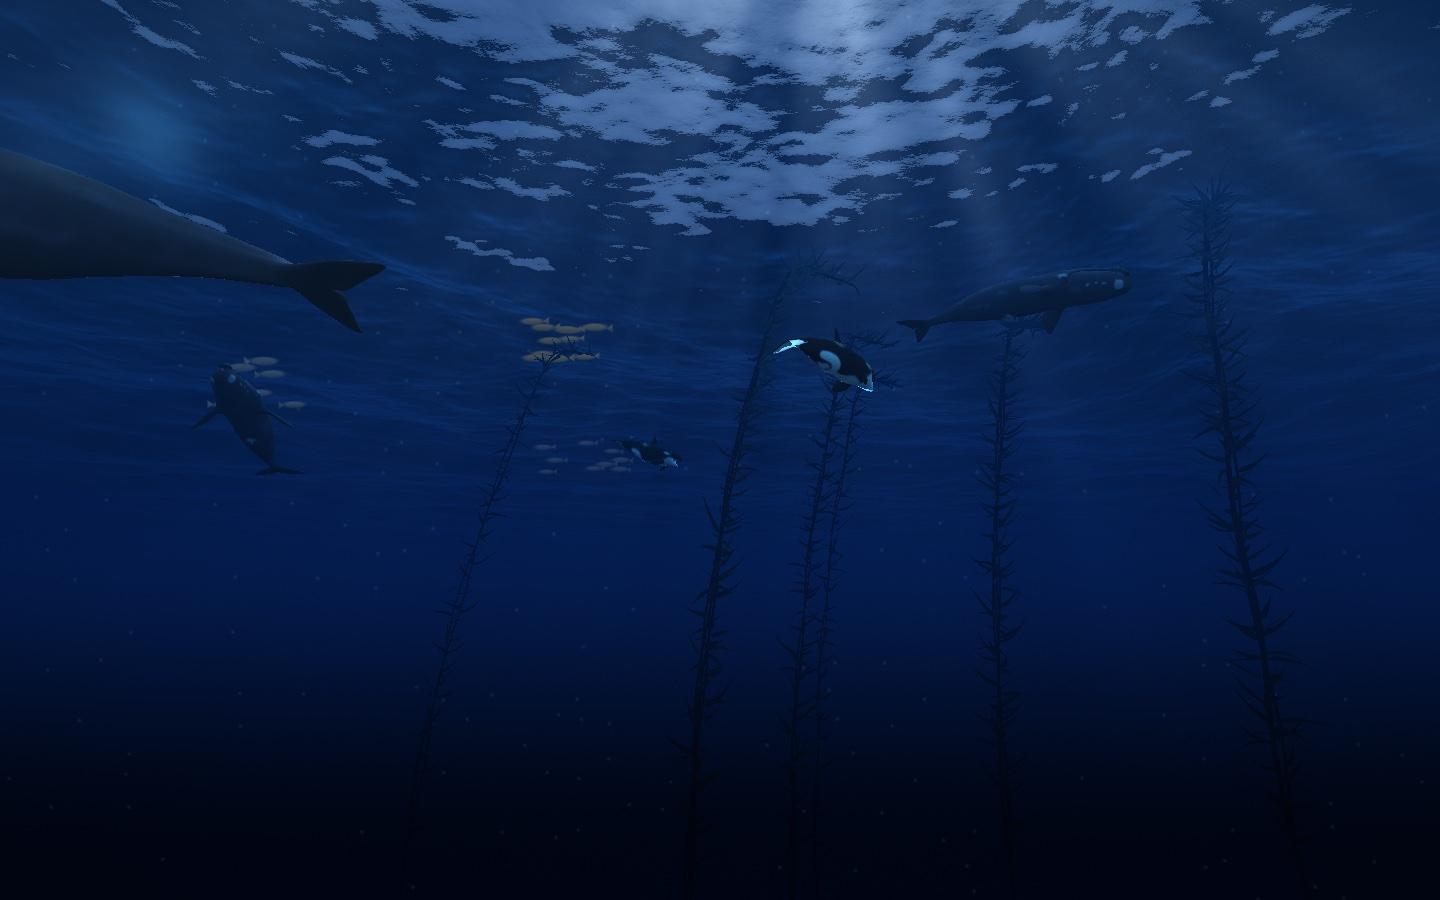
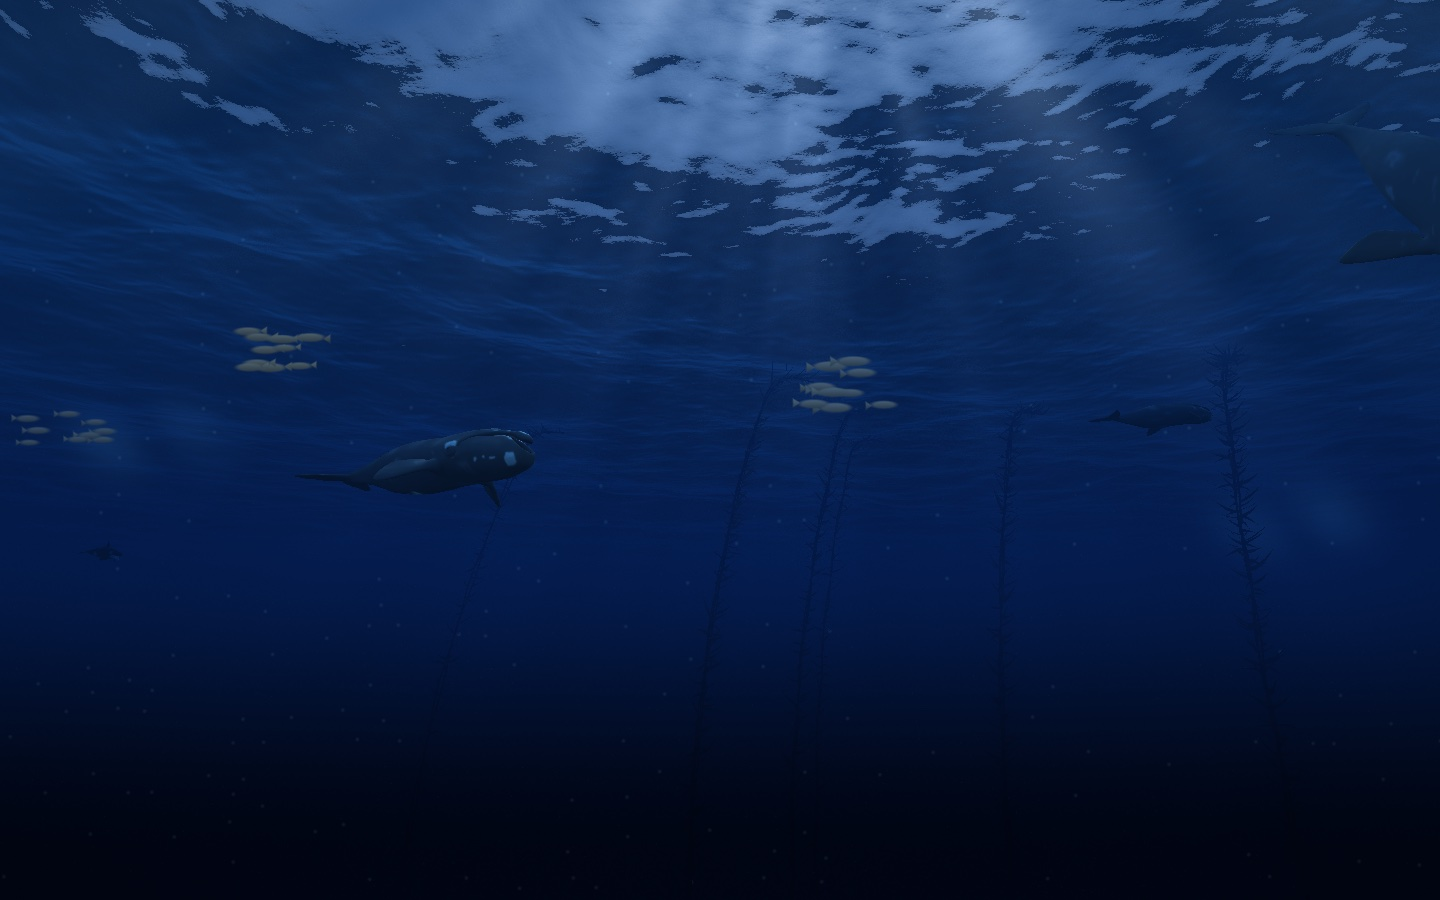
feat(scene): whales roam far, kelp is only a hint, fish schools in front
- Kelp 55 to 100 m away and faded almost into the water
- Whales roam far from the camera and leave the view at the sides; each comes
  to the front only rarely (about 4.5% of the day), on a slow cycle of its own
- The small fish swim near the camera and are drawn last, in their own pass,
  so they pass in front of the whales and the kelp

Part of #7

diff --git a/macos/EchomereScene/Sources/CoveSceneRenderer/SceneShaders.swift b/macos/EchomereScene/Sources/CoveSceneRenderer/SceneShaders.swift
@@ -1,9 +1,10 @@
 /// Metal source for the cove scene, compiled at runtime so the package builds without Xcode.
 ///
 /// The sea is simulated first (an FFT ocean, see `OceanShaders`); then `scene_fragment` draws the picture
-/// back to front: the water and the surface seen from below, echoes, small fish, marine snow, and
+/// back to front: the water and the surface seen from below, echoes, marine snow, and
 /// the light shafts. The surface and the shafts come from the same wave field, so the light moves with the
-/// waves. The kelp and the whales are drawn on top as 3D geometry (`kelp_*`, `whale_*`).
+/// waves. The kelp and the whales are drawn on top as 3D geometry (`kelp_*`, `whale_*`), and the small fish
+/// last, in front of everything (`fish_fragment`).
 ///
 ///
 /// The optics (refraction through the wave normal, Snell's window, total internal reflection, and caustics
@@ -315,7 +316,7 @@ enum SceneShaders {
         if (alpha <= 0.001) return float4(0.0);
 
         float3 silver = float3(0.24, 0.31, 0.35);
-        float3 gold = float3(0.34, 0.31, 0.19);
+        float3 gold = float3(0.27, 0.31, 0.30);
         float3 col = mix(silver, gold, saturate(c.x / 3.0));
         col *= 0.7 + 0.5 * saturate(q.y / 0.15 * 0.5 + 0.5);
         return float4(fogged(col, a.z, a.y, ambient), alpha);
@@ -343,7 +344,6 @@ enum SceneShaders {
         SeaTextures sea = { displacement, derivatives, curvature };
         float aspect = d[0].x;
         float t = d[0].y;
-        int creatureCount = int(d[0].z);
         int echoCount = int(d[1].x);
         float px = d[1].y;
         float2 p = float2(0.8 + (in.uv.x - 0.5) * aspect, in.uv.y);
@@ -360,13 +360,6 @@ enum SceneShaders {
             col += drawEcho(p, d[ECHOES + i * 2], d[ECHOES + i * 2 + 1], t, i);
         }
 
-
-        for (int i = 0; i < creatureCount; i++) {
-            int b = CREATURES + i * 3;
-            float4 c = d[b + 2];
-            float4 s = drawFish(p, d[b], d[b + 1], c, px, sky.ambient);
-            col = mix(col, s.rgb, s.a);
-        }
 
         // Marine snow, drifting down.
         for (int l = 0; l < 2; l++) {
@@ -387,6 +380,26 @@ enum SceneShaders {
         col *= 1.0 - 0.35 * dot(v, v);
         col += (hash21(in.position.xy) - 0.5) / 255.0;
         return float4(saturate(col), 1.0);
+    }
+
+    // The small fish, drawn last over the whole picture: they swim near the camera, in front of the whales
+    // and the kelp. The colour is premultiplied by its coverage.
+    fragment float4 fish_fragment(VOut in [[stage_in]], constant float4 *d [[buffer(0)]]) {
+        float aspect = d[0].x;
+        int fishCount = int(d[0].z);
+        float px = d[1].y;
+        float ambient = d[SKY + 1].w;
+        float2 p = float2(0.8 + (in.uv.x - 0.5) * aspect, in.uv.y);
+        float4 result = float4(0.0);
+        for (int i = 0; i < fishCount; i++) {
+            int b = CREATURES + i * 3;
+            float4 s = drawFish(p, d[b], d[b + 1], d[b + 2], px, ambient);
+            result = float4(result.rgb * (1.0 - s.a) + s.rgb * s.a, result.a * (1.0 - s.a) + s.a);
+        }
+        if (result.a <= 0.001) discard_fragment();
+        float2 v = (in.uv - 0.5) * float2(1.0, 0.8);
+        result.rgb *= 1.0 - 0.35 * dot(v, v);
+        return result;
     }
 
     // MARK: Kelp
@@ -533,8 +546,8 @@ enum SceneShaders {
 
         // The water between the kelp and the camera.
         float y = 1.0 - in.position.y * u[1].x;
-        float3 clear = exp(-distance * float3(0.070, 0.046, 0.040));
-        c = c * clear + water(y, ambient) * 0.75 * (1.0 - clear);
+        float3 clear = exp(-distance * float3(0.052, 0.040, 0.036));
+        c = c * clear + water(y, ambient) * 0.93 * (1.0 - clear);
         float2 v = float2(in.position.x * u[1].x / u[0].x - 0.5, y - 0.5) * float2(1.0, 0.8);
         c *= 1.0 - 0.35 * dot(v, v);
         return float4(saturate(c), 1.0);

diff --git a/macos/EchomereScene/Sources/CoveScene/CoveScene.swift b/macos/EchomereScene/Sources/CoveScene/CoveScene.swift
@@ -102,29 +102,43 @@ public struct CoveScene: Equatable, Sendable {
     // MARK: - Whales
 
     /// A whale roams the cove on a slow, endless path, unique to this cove and this whale. It swims at about
-    /// walking pace between the seabed and the surface, passes in front of the camera and over it, and leaves
-    /// the view now and then.
+    /// walking pace between the seabed and the surface, mostly far from the camera. Only rarely, on a slow
+    /// cycle of its own, does it come to the front.
     struct WhalePath {
         let amplitudeX, periodX, phaseX: Double
         let centreZ, amplitudeZ, periodZ, phaseZ: Double
         let centreY, amplitudeY, periodY, phaseY: Double
+        let approachPeriod, approachPhase, nearest: Double
         let tailPeriod, tailPhase: Double
 
         init(cove: CoveSeed, creatureID: String) {
             var random = SplitMix64(seed: combine(cove.value, stableHash(creatureID)))
-            amplitudeX = random.range(26, 40)
-            periodX = random.range(330, 500)
+            amplitudeX = random.range(95, 125)
+            periodX = random.range(520, 760)
             phaseX = random.angle()
-            centreZ = random.range(22, 30)
-            amplitudeZ = random.range(20, 27)
-            periodZ = random.range(270, 410)
+            centreZ = random.range(62, 76)
+            amplitudeZ = random.range(14, 20)
+            periodZ = random.range(400, 640)
             phaseZ = random.angle()
             centreY = random.range(-17, -13)
             amplitudeY = random.range(5, 8)
             periodY = random.range(240, 420)
             phaseY = random.angle()
+            approachPeriod = random.range(3600, 7200)
+            approachPhase = random.angle()
+            nearest = random.range(14, 22)
             tailPeriod = random.range(4.5, 6.5)
             tailPhase = random.angle()
+        }
+
+        func position(at t: Double) -> SIMD3<Double> {
+            // The visit to the front: 0 for most of the cycle, rising to 1 for a short while.
+            let visit = pow(0.5 + 0.5 * sin(cycle(t, approachPeriod) + approachPhase), 90)
+            let far = centreZ + amplitudeZ * sin(cycle(t, periodZ) + phaseZ)
+            return SIMD3(
+                amplitudeX * (1 - 0.8 * visit) * sin(cycle(t, periodX) + phaseX),
+                centreY + amplitudeY * sin(cycle(t, periodY) + phaseY),
+                far + (nearest - far) * visit)
         }
 
         struct State {
@@ -134,18 +148,10 @@ public struct CoveScene: Equatable, Sendable {
         }
 
         func state(at t: Double) -> State {
-            func wave(_ centre: Double, _ amplitude: Double, _ period: Double, _ phase: Double)
-                -> (Double, Double, Double) {
-                let omega = 2 * Double.pi / period
-                let angle = cycle(t, period) + phase
-                return (centre + amplitude * sin(angle), amplitude * omega * cos(angle),
-                        -amplitude * omega * omega * sin(angle))
-            }
-            let x = wave(0, amplitudeX, periodX, phaseX)
-            let y = wave(centreY, amplitudeY, periodY, phaseY)
-            let z = wave(centreZ, amplitudeZ, periodZ, phaseZ)
-            return State(position: SIMD3(x.0, y.0, z.0), velocity: SIMD3(x.1, y.1, z.1),
-                         acceleration: SIMD3(x.2, y.2, z.2))
+            let step = 0.5
+            let before = position(at: t - step), now = position(at: t), after = position(at: t + step)
+            return State(position: now, velocity: (after - before) / (2 * step),
+                         acceleration: (after - 2 * now + before) / (step * step))
         }
     }
 

diff --git a/macos/EchomereScene/Sources/SceneChecks/main.swift b/macos/EchomereScene/Sources/SceneChecks/main.swift
@@ -68,7 +68,7 @@ let crowded = munichBay.frame(at: noon, visitors: crowd, echoes: [])
 check("at most six whales are drawn: five visitors and a creator's new whale",
       crowded.whales.count == SceneRules.maxWhales)
 
-var inView = 0, samples = 0, overhead = false
+var inView = 0, samples = 0, upFront = 0
 var fastest = 0.0, shallowest = -100.0, deepest = 0.0
 var previous: WhalePose?
 for step in stride(from: 0.0, to: day, by: 20) {
@@ -78,7 +78,7 @@ for step in stride(from: 0.0, to: day, by: 20) {
        seen.x > -0.1, seen.x < 1.1, seen.y > -0.1, seen.y < 1.1, seen.distance < 110 {
         inView += 1
     }
-    if hypot(whale.position.x, whale.position.z) < 15 { overhead = true }
+    if whale.position.z < 32 { upFront += 1 }
     shallowest = max(shallowest, whale.position.y)
     deepest = min(deepest, whale.position.y)
     if let previous {
@@ -90,7 +90,9 @@ for step in stride(from: 0.0, to: day, by: 20) {
 let inViewShare = Double(inView) / Double(samples)
 check("a whale roams in and out of view (in view \(Int(inViewShare * 100))% of the day)",
       inViewShare > 0.3 && inViewShare < 0.85)
-check("a whale passes over the camera at some point in the day", overhead)
+let upFrontShare = Double(upFront) / Double(samples)
+check("a whale comes to the front only rarely (\(String(format: "%.1f", upFrontShare * 100))% of the day)",
+      upFront > 0 && upFrontShare < 0.05)
 check("a whale stays between the seabed and the surface (\(Int(-shallowest)) to \(Int(-deepest)) m deep)",
       shallowest < -3 && deepest > -SceneRules.cameraDepth + 2)
 check("a whale swims at a whale's pace (at most \(String(format: "%.1f", fastest)) m/s)", fastest < 2)
@@ -129,8 +131,10 @@ check("kelp is rooted below the view and reaches the surface",
 let sway = Kelp.motion(at: noon), swayLater = Kelp.motion(at: noon + Kelp.surgePeriod / 4)
 var quarter = swayLater.surge - sway.surge
 if quarter < 0 { quarter += 2 * .pi }
-check("kelp stays in the background, at least 25 m from the camera",
-      munichBay.layout.kelp.allSatisfy { $0.baseZ > 25 })
+check("kelp is only hinted at, at least 50 m from the camera",
+      munichBay.layout.kelp.allSatisfy { $0.baseZ > 50 })
+check("the small fish swim near the camera, in front of the whales",
+      !munichBay.layout.schools.isEmpty && munichBay.layout.schools.allSatisfy { $0.depth < 0.4 })
 check("kelp sways with the swell (one sway every \(String(format: "%.1f", Kelp.surgePeriod)) s)",
       abs(quarter - .pi / 2) < 1e-6 && Kelp.surgePeriod > 8 && Kelp.surgePeriod < 10)
 check("kelp sways the same on every screen",

diff --git a/macos/EchomereScene/Sources/CoveSceneRenderer/CoveSceneRenderer.swift b/macos/EchomereScene/Sources/CoveSceneRenderer/CoveSceneRenderer.swift
@@ -33,6 +33,8 @@ public final class CoveSceneRenderer {
     // The whales: one model per species, drawn once per whale after the kelp.
     private let whalePipeline: MTLRenderPipelineState
     private let whaleModels: [WhaleSpecies: WhaleModel]
+    // The small fish, drawn last over everything.
+    private let fishPipeline: MTLRenderPipelineState
     /// Draws the sea from above instead of the scene, for checking the waves against footage of a real sea.
     public var showsSeaFromAbove = false
 
@@ -94,6 +96,19 @@ public final class CoveSceneRenderer {
             models[species] = try WhaleModel(species: species, device: device)
         }
         whaleModels = models
+
+        guard let fishFragment = library.makeFunction(name: "fish_fragment") else {
+            throw CoveSceneRendererError.missingShader("fish_fragment")
+        }
+        let fish = MTLRenderPipelineDescriptor()
+        fish.vertexFunction = vertex
+        fish.fragmentFunction = fishFragment
+        fish.colorAttachments[0].pixelFormat = pixelFormat
+        fish.colorAttachments[0].isBlendingEnabled = true
+        fish.colorAttachments[0].sourceRGBBlendFactor = .one
+        fish.colorAttachments[0].destinationRGBBlendFactor = .oneMinusSourceAlpha
+        fish.depthAttachmentPixelFormat = .depth32Float
+        fishPipeline = try device.makeRenderPipelineState(descriptor: fish)
 
         let mesh = KelpMesh.build()
         guard let vertices = mesh.vertices.withUnsafeBytes({ device.makeBuffer(bytes: $0.baseAddress!, length: $0.count) }),
@@ -250,6 +265,13 @@ public final class CoveSceneRenderer {
                 encoder.drawIndexedPrimitives(
                     type: .triangle, indexCount: model.indexCount, indexType: .uint32, indexBuffer: model.indices,
                     indexBufferOffset: 0)
+            }
+
+            if !frame.creatures.isEmpty {
+                encoder.setRenderPipelineState(fishPipeline)
+                encoder.setDepthStencilState(backdropDepth)
+                encoder.setFragmentBuffer(buffer, offset: 0, index: 0)
+                encoder.drawPrimitives(type: .triangle, vertexStart: 0, vertexCount: 3)
             }
         }
         encoder.endEncoding()

diff --git a/macos/EchomereScene/Sources/CoveScene/CoveLayout.swift b/macos/EchomereScene/Sources/CoveScene/CoveLayout.swift
@@ -69,13 +69,13 @@ public struct CoveLayout: Equatable, Sendable {
                 phases: SIMD4(random.angle(), random.angle(), random.angle(), random.angle()))
         }
 
-        // Giant kelp, kept in the background: a few plants far from the camera, soft shapes in the haze. They
+        // Giant kelp, only hinted at in the background: a few plants far from the camera, faint in the haze. They
         // are rooted on the seabed, which slopes away below the view, so the stalks rise into the picture from
         // its bottom edge.
         var fronds: [KelpFrond] = []
         let plants = random.int(5, 7)
         for plant in 0..<plants {
-            let z = 30 + 40 * (Double(plant) + random.unit()) / Double(plants)
+            let z = 55 + 45 * (Double(plant) + random.unit()) / Double(plants)
             let x = random.range(-0.95, 0.95) * z
             let depth = SceneRules.cameraDepth + 2 + 0.36 * z
             let plantPhase = random.angle()
@@ -95,7 +95,8 @@ public struct CoveLayout: Equatable, Sendable {
 
         schools = (0..<random.int(2, 4)).map { _ in
             FishSchool(
-                depth: random.range(0.3, 0.85),
+                // The small fish stay near the camera, in front of the whales and the kelp.
+                depth: random.range(0.05, 0.35),
                 size: random.range(0.8, 1.3),
                 tint: random.int(0, 3),
                 centreX: random.range(0.3, 1.3),
